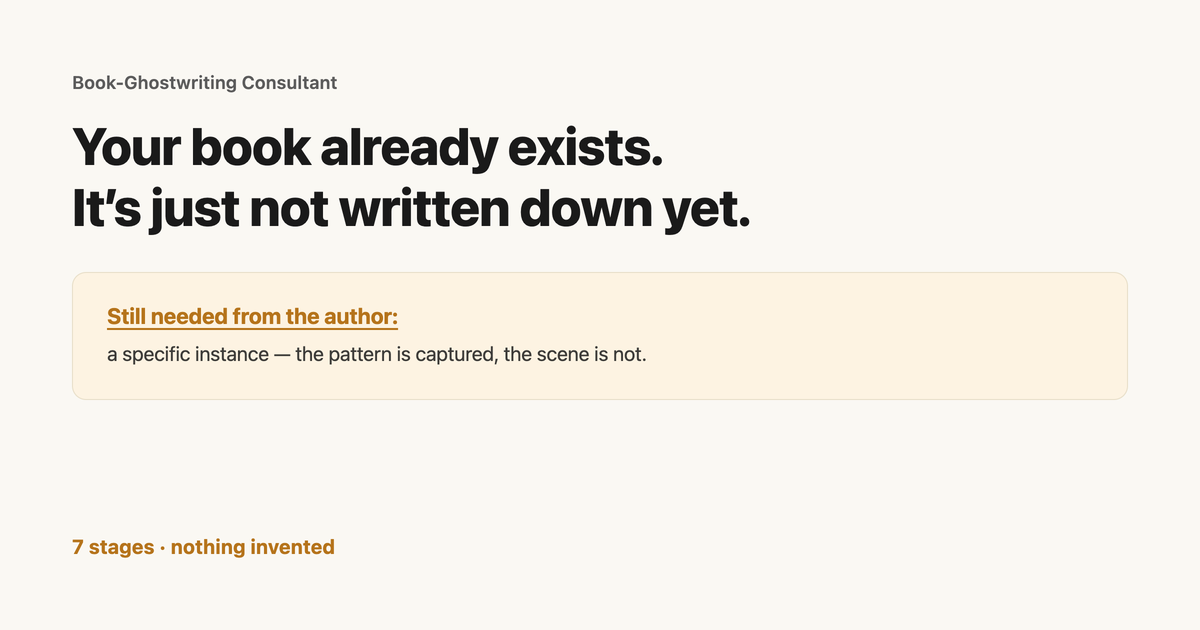
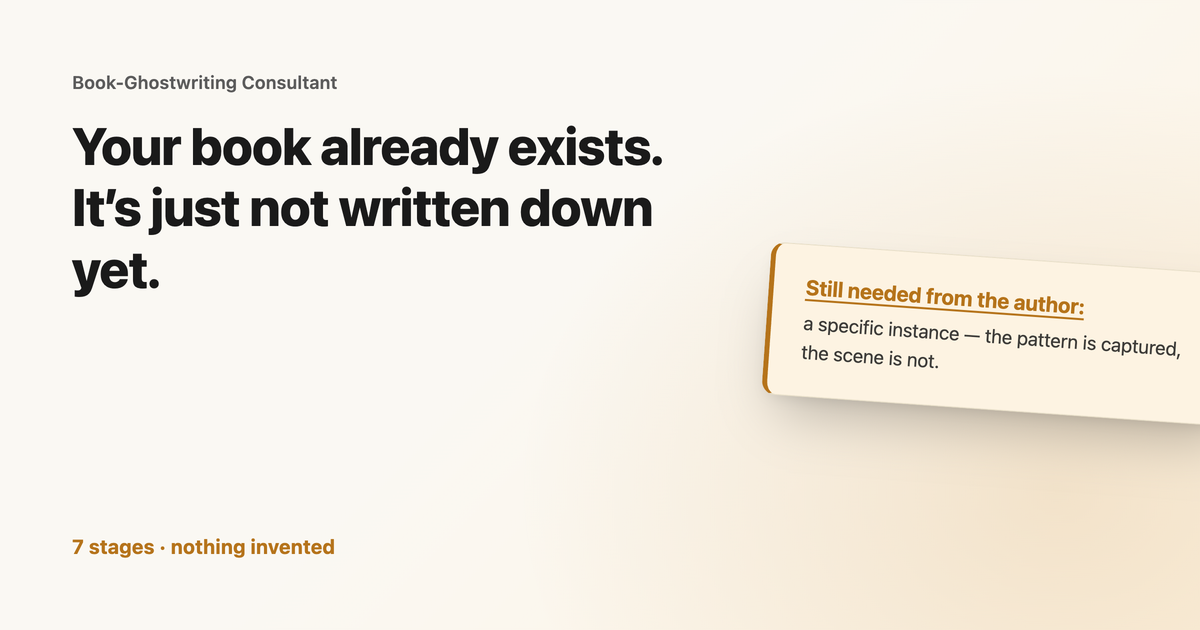
Fix footer GitHub link to real repo URL

diff --git a/docs/index.html b/docs/index.html
@@ -244,7 +244,7 @@ pattern is captured; the scene is not — flagged, not invented.</pre>
 
 <footer>
   <div class="wrap">
-    <p>MIT licensed — see <code>LICENSE</code>. · <a href="https://github.com" style="color:var(--muted);">View on GitHub</a></p>
+    <p>MIT licensed — see <code>LICENSE</code>. · <a href="https://github.com/NFTYoginis/book-ghostwriting-consultant" style="color:var(--muted);">View on GitHub</a></p>
     <p class="credit">Book-Ghostwriting Consultant — Gabe — Your AI Specialist</p>
   </div>
 </footer>
